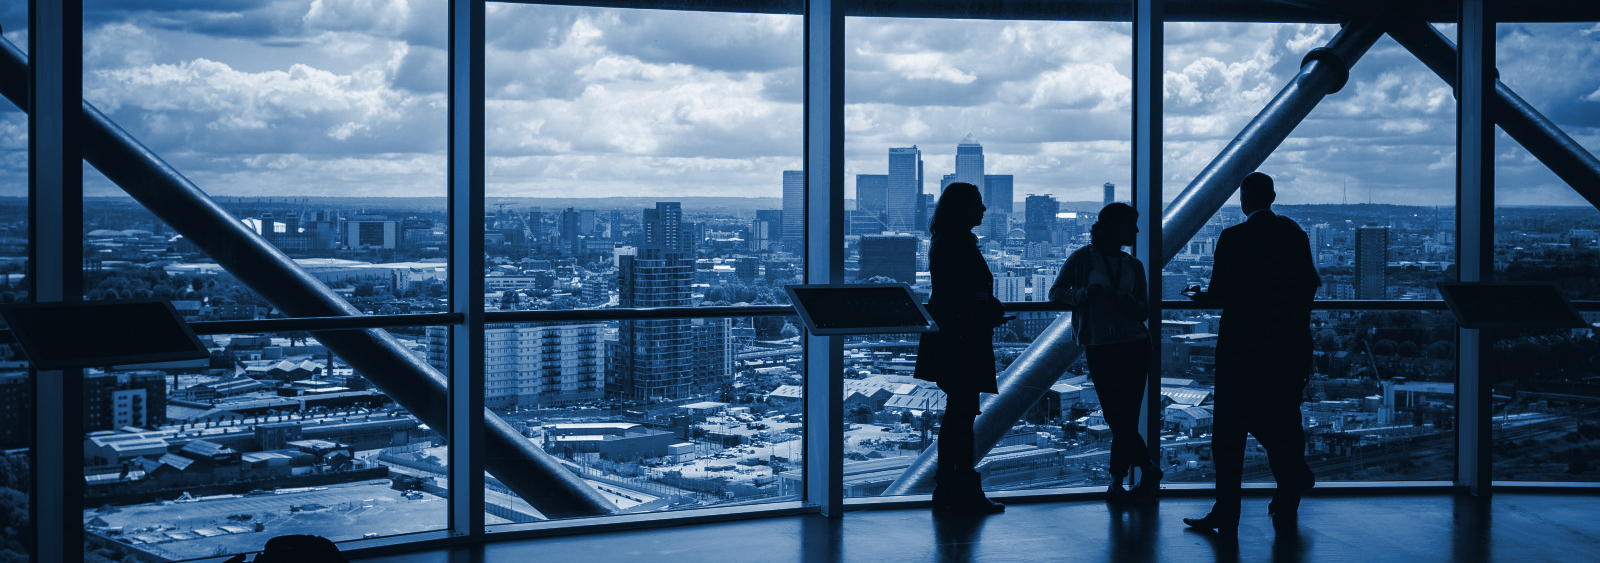
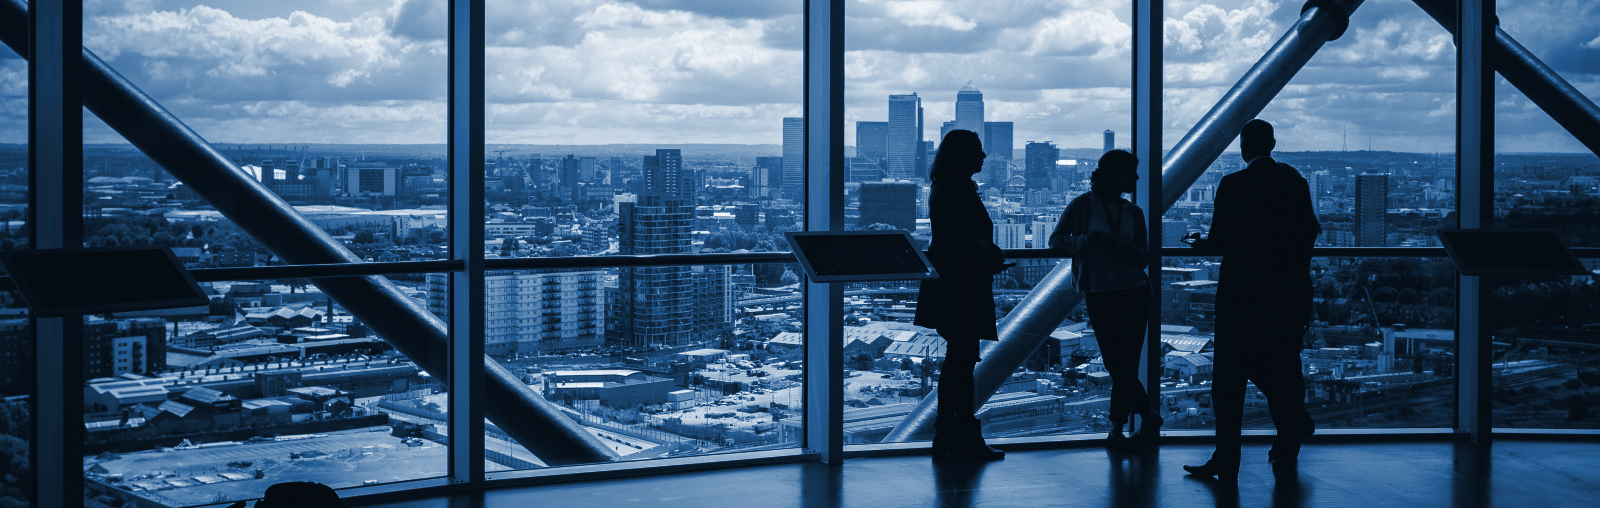
d
d

diff --git a/atcomm/style.css b/atcomm/style.css
@@ -80,7 +80,7 @@ li:hover {
 }
 #banner{
   background-image: url(banner2.png);
-  background-size: auto 600px;
+  background-size: auto;
   height: 450px;
   border-bottom-style: solid;
   border-bottom-color: #004f9d;
